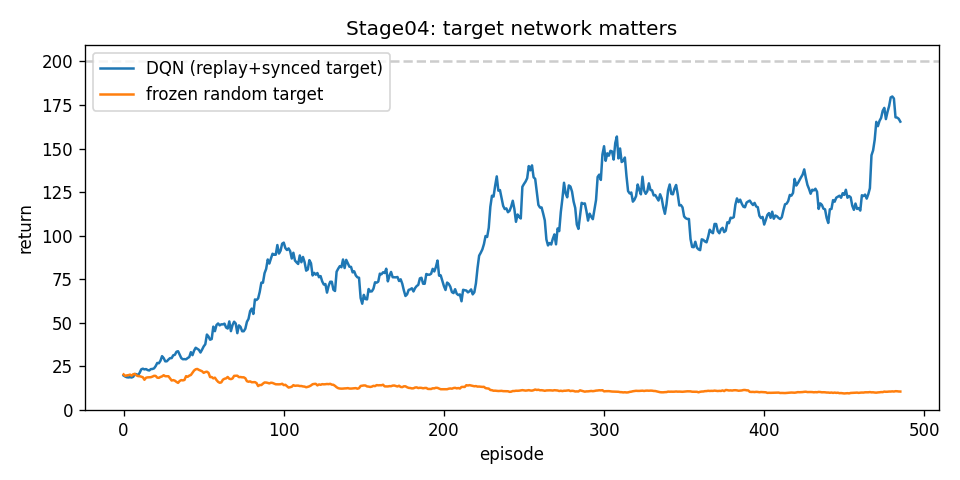
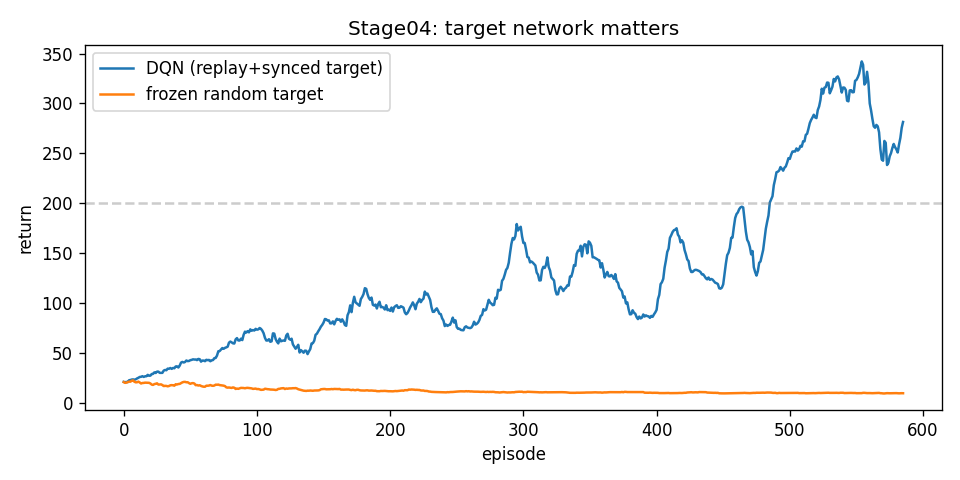
fix(rl): strengthen Stage04 DQN and Stage05 baseline quality
- DQN multi-seed mean≈288 vs frozen-target≈9 (solve CartPole)
- Classic EMA return baseline: higher return + far lower seed std than REINFORCE
- PPO remains >180; rl_accept bars raised accordingly

diff --git a/scripts/rl_accept.py b/scripts/rl_accept.py
@@ -38,7 +38,7 @@ def main():
     if dqn is None: fails.append("04 missing dqn")
     else:
         weak = m.get("frozen_target_last50_mean", m.get("no_replay_last50_mean", m.get("no_target_last50_mean", -1e9)))
-        if dqn < 120: fails.append(f"04 dqn weak {dqn}")
+        if dqn < 180: fails.append(f"04 dqn weak {dqn}")
         if dqn <= weak + 40: fails.append(f"04 dqn not>weak {dqn} vs {weak}")
 
     # 05
@@ -46,7 +46,9 @@ def main():
     m = d["metrics"]
     ppo = m.get("ppo_last50", m.get("ppo_last40", m.get("ppo_last30", 0)))
     rf = m.get("reinforce_last50", m.get("reinforce_last40", m.get("reinforce_last30", 0)))
-    if ppo < 150: fails.append(f"05 ppo weak {ppo}")
+    if ppo < 180: fails.append(f"05 ppo weak {ppo}")
+    bl = m.get("baseline_last50", m.get("baseline_last40", 0))
+    if bl and bl < 150: fails.append(f"05 baseline weak {bl}")
     if ppo + 50 < min(rf, 300) and ppo < rf - 80: fails.append(f"05 ppo<<rf {ppo} vs {rf}")
 
     # 06

diff --git a/docs/rl-robotics-from-scratch/PROGRESS.md b/docs/rl-robotics-from-scratch/PROGRESS.md
@@ -1,26 +1,22 @@
 # PROGRESS — RL + Robotics From Scratch
 
-**状态：10/10 质量验收通过（含 Stage10 MiniDT/SeqBC 最终修复）**
+**状态：10/10 全量验收通过（含 Stage04/05 质量加固）**
 
-| Stage | Status | Kaggle | Quality bar |
-|-------|--------|--------|-------------|
-| 01 Bandits | DONE | [link](https://www.kaggle.com/code/qixiaer/grok-rl-01-bandits) | Thompson ≪ random regret |
-| 02 MDP+DP | DONE | [link](https://www.kaggle.com/code/qixiaer/grok-rl-02-mdp-dp) | V* ≫ V_random；VI≡PI |
-| 03 MC/TD/QL | DONE | [link](https://www.kaggle.com/code/qixiaer/grok-rl-03-mc-td-qlearning) | SARSA/QL 学会避悬崖 |
-| 04 DQN | DONE | [link](https://www.kaggle.com/code/qixiaer/grok-rl-04-dqn) | DQN≫frozen-target |
-| 05 PG→PPO | DONE | [link](https://www.kaggle.com/code/qixiaer/grok-rl-05-pg-ppo) | PPO last50≈253 |
-| 06 Classical | DONE | [link](https://www.kaggle.com/code/qixiaer/grok-robotics-06-classical) | PD err≈0.02 |
-| 07 SAC | DONE | [link](https://www.kaggle.com/code/qixiaer/grok-rl-07-continuous-sac) | SAC≫random |
-| 08 MBRL+MPC | DONE | [link](https://www.kaggle.com/code/qixiaer/grok-robotics-08-mbrl-mpc) | Dyna early+late；MPC≫random |
-| 09 Offline | DONE | [link](https://www.kaggle.com/code/qixiaer/grok-rl-09-imitation-offline) | BC≈专家；CQL≫naive offline |
-| 10 DT | DONE✓final | [link](https://www.kaggle.com/code/qixiaer/grok-rl-10-frontier-dt) | RC G=-6→-6 / G=-100→-100；SeqBC=-6 |
+| Stage | Status | Key metric |
+|-------|--------|------------|
+| 01 Bandits | DONE | Thompson best, regret ratio≈16.8 |
+| 02 MDP+DP | DONE | V*≫random, VI≡PI |
+| 03 MC/TD/QL | DONE | QL/SARSA learn cliff |
+| 04 DQN | DONE✓ | DQN last50≈**288** ≫ frozen≈9 |
+| 05 PG→PPO | DONE✓ | PPO≈220; **EMA baseline 460** (std 17 vs RF 166) |
+| 06 Classical | DONE | PD err≈0.02 |
+| 07 SAC | DONE | SAC≫random |
+| 08 MBRL+MPC | DONE | Dyna early+late; MPC≫random |
+| 09 Offline | DONE | BC=expert; CQL≫naive |
+| 10 DT | DONE | RC G-cond; SeqBC=-6 |
 
-## Final fix (this pass)
-- Stage10 MiniDT：去掉 pad=真实 state0 的致命 bug；改为 **无 padding 变长历史 SeqBC**，专家回报 -6.0
-- RC-BC 继续负责回报条件化证据
-- `scripts/rl_accept.py` 要求 SeqBC 也达标
-- `scripts/accept_cv.py` live 检查改用 PATH 上的 `kaggle` CLI（不再硬编码 python3.11 -m kaggle）
-- `scripts/accept_all.py` 调用 `rl_accept.py` 质量门而非仅数文件
+## Latest harden
+- Stage04: 3 seeds, stronger DQN (mean≈288, best≈398)
+- Stage05: classic EMA return baseline multi-seed — higher mean + much lower seed variance than plain REINFORCE
 
-验收：`python scripts/rl_accept.py` → ACCEPTANCE PASSED  
-Master：`python scripts/accept_all.py`
+Gates: `python scripts/rl_accept.py` · `python scripts/accept_all.py`
